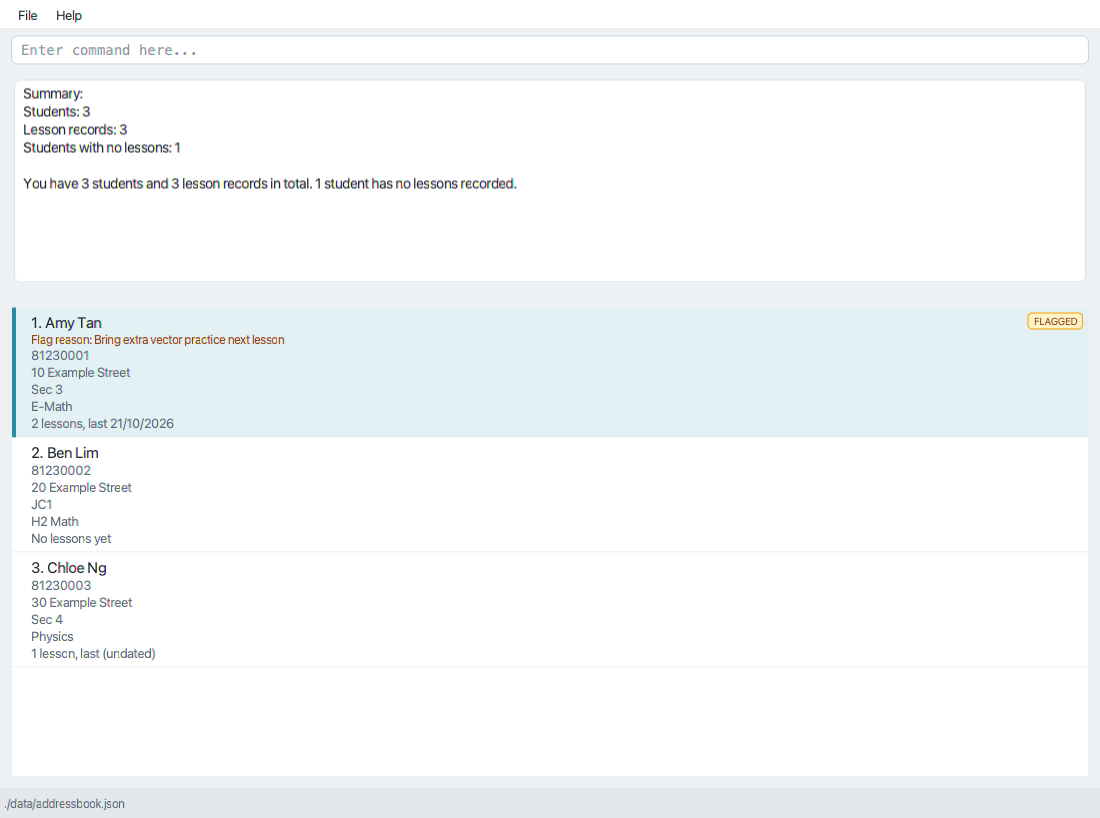
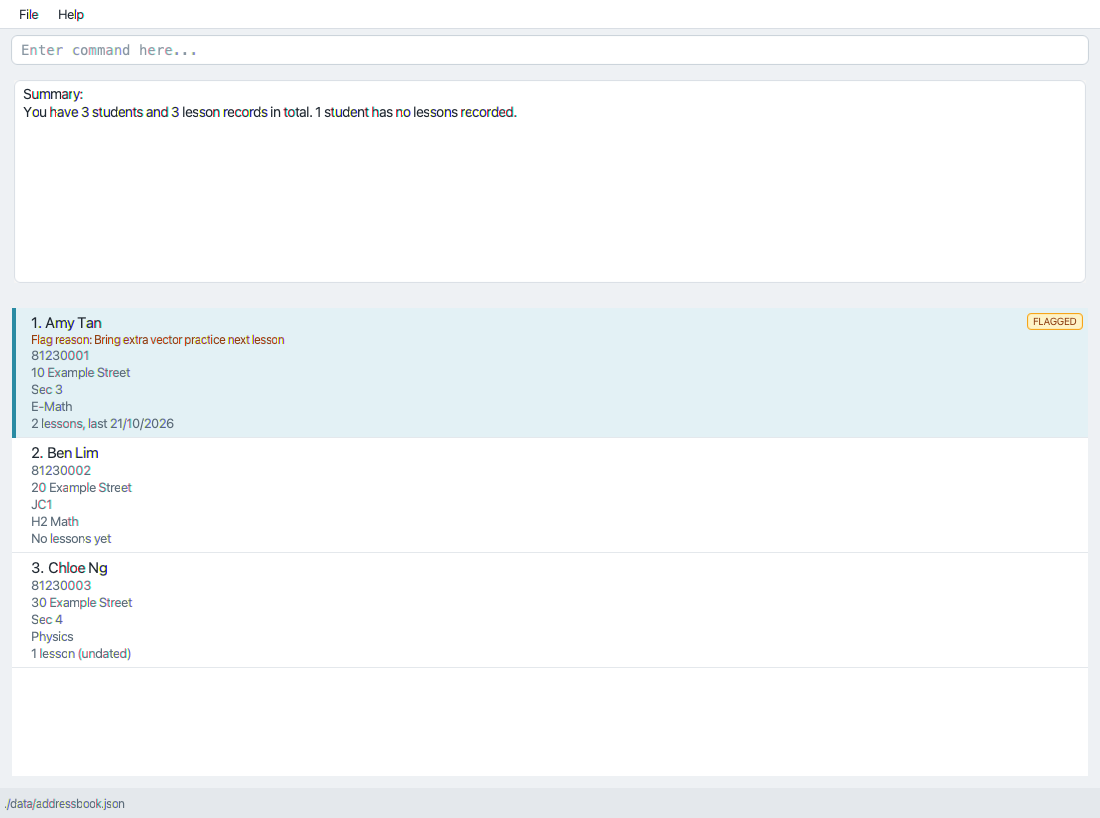
Simplify summary output and undated lesson status
The summary repeats its totals in two formats, and cards describe an
undated history as having a last date.

Let's report the totals once in a paragraph and mark undated histories
directly, with matching tests, guides and a refreshed screenshot.

diff --git a/src/test/java/seedu/address/logic/commands/SummaryCommandTest.java b/src/test/java/seedu/address/logic/commands/SummaryCommandTest.java
@@ -39,7 +39,7 @@ public class SummaryCommandTest {
     @Test
     public void execute_emptyModel_reportsZero() {
         CommandResult result = new SummaryCommand().execute(new ModelManager());
-        assertEquals(new CommandResult("Summary:\nStudents: 0\nLesson records: 0\nStudents with no lessons: 0\n\n"
+        assertEquals(new CommandResult("Summary:\n"
                 + "No students yet. Add a student to start recording lessons."),
                 result);
     }
@@ -59,7 +59,7 @@ public class SummaryCommandTest {
             logic.execute(filter);
             List<Person> visible = List.copyOf(logic.getFilteredPersonList());
             var liveList = logic.getFilteredPersonList();
-            assertEquals("Summary:\nStudents: 2\nLesson records: 2\nStudents with no lessons: 1\n\n"
+            assertEquals("Summary:\n"
                 + "You have 2 students and 2 lesson records in total. 1 student has no lessons recorded.",
                     logic.execute("summary").getFeedbackToUser());
             assertEquals(visible, logic.getFilteredPersonList());
@@ -72,7 +72,7 @@ public class SummaryCommandTest {
                 SummaryCommand.MESSAGE_USAGE), () -> logic.execute("summary 1"));
         assertEquals("Ben Lim", logic.getFilteredPersonList().getFirst().getName().fullName);
         logic.execute("delete 1");
-        assertEquals("Summary:\nStudents: 1\nLesson records: 2\nStudents with no lessons: 0\n\n"
+        assertEquals("Summary:\n"
                 + "You have 1 student and 2 lesson records in total. Every student has at least one lesson recorded.",
                 logic.execute("summary").getFeedbackToUser());
         assertTrue(logic.getFilteredPersonList().isEmpty());
@@ -85,18 +85,18 @@ public class SummaryCommandTest {
         JsonAddressBookStorage storage = new JsonAddressBookStorage(file);
         Logic logic = logic(model, storage);
         logic.execute("add n/Amy Tan p/81230001 a/10 Example Street l/Sec 3 sub/E-Math");
-        assertEquals("Summary:\nStudents: 1\nLesson records: 0\nStudents with no lessons: 1\n\n"
+        assertEquals("Summary:\n"
                 + "You have 1 student and 0 lesson records in total. 1 student has no lessons recorded.",
                 logic.execute("summary").getFeedbackToUser());
         logic.execute("log 1 c/Algebra date/2/1/2020");
         logic.execute("editlesson 1 1 c/Vectors date/1/1/2020");
-        assertEquals("Summary:\nStudents: 1\nLesson records: 1\nStudents with no lessons: 0\n\n"
+        assertEquals("Summary:\n"
                 + "You have 1 student and 1 lesson record in total. Every student has at least one lesson recorded.",
                 logic.execute("summary").getFeedbackToUser());
         ModelManager reloaded = new ModelManager(storage.readAddressBook().orElseThrow(), model.getUserPrefs());
         assertEquals(new SummaryCommand().execute(model), new SummaryCommand().execute(reloaded));
         logic.execute("deletelesson 1 1");
-        assertEquals("Summary:\nStudents: 1\nLesson records: 0\nStudents with no lessons: 1\n\n"
+        assertEquals("Summary:\n"
                 + "You have 1 student and 0 lesson records in total. 1 student has no lessons recorded.",
                 logic.execute("summary").getFeedbackToUser());
     }

diff --git a/src/test/java/seedu/address/ui/PersonListPanelTest.java b/src/test/java/seedu/address/ui/PersonListPanelTest.java
@@ -96,11 +96,10 @@ public class PersonListPanelTest {
             try {
                 Region root = (Region) window.getPrimaryStage().getScene().getRoot();
                 ListView<?> list = (ListView<?>) root.lookup("#personListView");
-                assertEquals("3 lessons, last (undated)", label(cellAt(list, 0), "lessonStatus").getText());
+                assertEquals("3 lessons (undated)", label(cellAt(list, 0), "lessonStatus").getText());
                 enterClickTestCommand(root, "flag 2 r/Call parent");
                 enterClickTestCommand(root, "flagged");
-                assertFeedback(root, "summary", "Summary:\nStudents: 2\nLesson records: 3"
-                        + "\nStudents with no lessons: 1\n\nYou have 2 students and 3 lesson records in total. "
+                assertFeedback(root, "summary", "Summary:\nYou have 2 students and 3 lesson records in total. "
                         + "1 student has no lessons recorded.", false);
                 assertEquals(1, list.getItems().size());
                 assertEquals("Ben", label(cellAt(list, 0), "name").getText());
@@ -118,8 +117,7 @@ public class PersonListPanelTest {
                 assertEquals("No lessons yet", label(cellAt(list, 0), "lessonStatus").getText());
                 assertTrue(label(cellAt(list, 0), "flaggedBadge").isVisible());
                 assertEquals("Flag reason: Call parent", label(cellAt(list, 0), "flagReason").getText());
-                assertFeedback(root, "summary", "Summary:\nStudents: 2\nLesson records: 3"
-                        + "\nStudents with no lessons: 1\n\nYou have 2 students and 3 lesson records in total. "
+                assertFeedback(root, "summary", "Summary:\nYou have 2 students and 3 lesson records in total. "
                         + "1 student has no lessons recorded.", false);
                 assertEquals(1, list.getItems().size());
             } finally {
@@ -141,7 +139,7 @@ public class PersonListPanelTest {
                 cell.pseudoClassStateChanged(PseudoClass.getPseudoClass("hover"), true);
                 list.applyCss();
                 list.layout();
-                assertEquals("2 lessons, last (undated)", label(cell, "lessonStatus").getText());
+                assertEquals("2 lessons (undated)", label(cell, "lessonStatus").getText());
                 assertTrue(label(cell, "lessonStatus").isWrapText());
                 assertTrue(label(cell, "flaggedBadge").isVisible());
                 Bounds reason = label(cell, "flagReason").localToScene(label(cell, "flagReason").getBoundsInLocal());

diff --git a/src/test/java/seedu/address/logic/MessagesTest.java b/src/test/java/seedu/address/logic/MessagesTest.java
@@ -56,9 +56,9 @@ public class MessagesTest {
         Person student = new PersonBuilder().build();
         assertEquals("No lessons yet", Messages.formatLessonStatus(student));
         student = student.withLessonAdded(new Lesson("Algebra"));
-        assertEquals("1 lesson, last (undated)", Messages.formatLessonStatus(student));
+        assertEquals("1 lesson (undated)", Messages.formatLessonStatus(student));
         student = student.withLessonAdded(new Lesson("Geometry"));
-        assertEquals("2 lessons, last (undated)", Messages.formatLessonStatus(student));
+        assertEquals("2 lessons (undated)", Messages.formatLessonStatus(student));
         student = student.withLessonAdded(new Lesson("Vectors", LocalDate.of(2020, 3, 5)));
         assertEquals("3 lessons, last 05/03/2020", Messages.formatLessonStatus(student));
         Person dated = new PersonBuilder().build().withLessonAdded(new Lesson("Algebra", LocalDate.of(2020, 1, 2)));

diff --git a/src/main/java/seedu/address/logic/commands/SummaryCommand.java b/src/main/java/seedu/address/logic/commands/SummaryCommand.java
@@ -16,15 +16,12 @@ public class SummaryCommand extends Command {
             + ": Shows totals for all students and lesson records. Accepts no parameters.\n"
             + "Example: " + COMMAND_WORD;
 
-    public static final String MESSAGE_SUCCESS = "Summary:\nStudents: %1$d\nLesson records: %2$d"
-            + "\nStudents with no lessons: %3$d";
+    public static final String MESSAGE_SUCCESS = "Summary:\n%1$s";
 
     @Override
     public CommandResult execute(Model model) {
         requireNonNull(model);
         StudentSummary summary = new StudentSummary(model.getAddressBook());
-        return new CommandResult(String.format(MESSAGE_SUCCESS, summary.getStudentCount(),
-                summary.getLessonCount(), summary.getStudentsWithoutLessons())
-                + "\n\n" + Messages.formatSummaryParagraph(summary));
+        return new CommandResult(String.format(MESSAGE_SUCCESS, Messages.formatSummaryParagraph(summary)));
     }
 }

diff --git a/src/main/java/seedu/address/logic/Messages.java b/src/main/java/seedu/address/logic/Messages.java
@@ -75,10 +75,10 @@ public class Messages {
         if (count == 0) {
             return "No lessons yet";
         }
-        String lastDate = person.getLatestLessonDate()
-                .map(date -> date.format(LESSON_DATE_FORMATTER))
-                .orElse(UNDATED_LESSON);
-        return count + (count == 1 ? " lesson, last " : " lessons, last ") + lastDate;
+        String lessonCount = count + (count == 1 ? " lesson" : " lessons");
+        return person.getLatestLessonDate()
+                .map(date -> lessonCount + ", last " + date.format(LESSON_DATE_FORMATTER))
+                .orElse(lessonCount + " " + UNDATED_LESSON);
     }
 
     /**

diff --git a/docs/DeveloperGuide.md b/docs/DeveloperGuide.md
@@ -210,7 +210,7 @@ The command keeps each student's lessons in date order with one of two operation
 
 ### Student and lesson summaries
 
-`AddressBookParser` routes `summary` to `SummaryCommandParser`, which accepts whitespace but rejects arguments with the summary-specific usage. `SummaryCommand` creates a `StudentSummary` from `Model#getAddressBook`, rather than the filtered list, and returns three labelled totals plus a short paragraph in a normal `CommandResult`. `Messages#formatSummaryParagraph` handles empty collections, singular/plural wording and whether any students lack lesson records. It never updates the active filter. The immutable snapshot counts each lesson occurrence, including undated legacy records; the total uses a `long` so adding the sizes of many histories cannot overflow an `int`. No summary values are added to JSON. The existing post-command saving and failed-save rollback still apply.
+`AddressBookParser` routes `summary` to `SummaryCommandParser`, which accepts whitespace but rejects arguments with the summary-specific usage. `SummaryCommand` creates a `StudentSummary` from `Model#getAddressBook`, rather than the filtered list, and returns a heading and a single summary paragraph in a normal `CommandResult`. `Messages#formatSummaryParagraph` handles empty collections, singular/plural wording and whether any students lack lesson records. It never updates the active filter. The immutable snapshot counts each lesson occurrence, including undated legacy records; the total uses a `long` so adding the sizes of many histories cannot overflow an `int`. No summary values are added to JSON. The existing post-command saving and failed-save rollback still apply.
 
 `Person#getLessonCount` counts that student's records. `Person#getLatestLessonDate` selects the greatest present date, ignoring undated records and avoiding an assumption about list order. `Messages#formatLessonStatus` supplies empty, singular, plural and undated wording. `PersonCard` places this status below the subject using the existing wrapping label style. Each immutable student replacement already triggers the list cell to rebuild its card, so `log`, `editlesson` and `deletelesson` need no additional UI callbacks or cached counters. Flag display is independent of the lesson-status row.
 
@@ -613,12 +613,12 @@ Use Java `25` and a separate empty test folder. Copy `TutorLah.jar` there and op
 
 Use a separate test folder with an empty student file and fictional data only.
 
-1. Enter `summary`. Expected: all three totals are zero, followed by `No students yet. Add a student to start recording lessons.`.
-1. Add Amy Tan and Ben Lim, then log two dated lessons for Amy. Expected: Amy's card shows `2 lessons, last DATE` using the later date, and Ben's shows `No lessons yet`. `summary` reports 2 students, 2 lesson records and 1 student with no lessons, followed by `You have 2 students and 2 lesson records in total. 1 student has no lessons recorded.`.
+1. Enter `summary`. Expected: the summary says `No students yet. Add a student to start recording lessons.`.
+1. Add Amy Tan and Ben Lim, then log two dated lessons for Amy. Expected: Amy's card shows `2 lessons, last DATE` using the later date, and Ben's shows `No lessons yet`. `summary` reports 2 students, 2 lesson records and 1 student with no lessons: `You have 2 students and 2 lesson records in total. 1 student has no lessons recorded.`.
 1. Enter `find ben`, then `summary`. Expected: the same totals, with only Ben still displayed as student 1. Repeat after flagging Ben and entering `flagged`, and after a search that finds no students.
 1. Enter `summary 1`. Expected: the summary usage, with the preceding filter and student data unchanged.
 1. Enter `list`, edit Amy's latest lesson to an earlier date, then remove her lessons one at a time using `deletelesson`. Expected: the card immediately follows the most recent remaining date, the count decreases, and removing the last record shows `No lessons yet`. `summary` then reports 2 students, 0 lesson records and 2 students with no lessons.
-1. Restart with a valid legacy file containing undated lessons. Expected: these records count in the totals, and a student with only undated records shows `N lessons, last (undated)` (or `1 lesson, last (undated)`). Logging a dated lesson keeps those records and supplies the new last date.
+1. Restart with a valid legacy file containing undated lessons. Expected: these records count in the totals, and a student with only undated records shows `N lessons (undated)` (or `1 lesson (undated)`). Logging a dated lesson keeps those records and supplies the new last date.
 1. Check the status alongside a flag reason, selected and hovered cards, long student details and the supported display sizes/scales. Expected: the status and reason remain readable without overlapping other fields.
 
 ### Adding students

diff --git a/tutorlah-agent-brief.md b/tutorlah-agent-brief.md
@@ -6,7 +6,7 @@ it). If your tool reads neither, paste this file in before your task. It
 replaces the "Shared rules" and "Shared conventions and agreed interfaces"
 sections of the Oct 5 work plan.
 
-Last updated: Oct 25, 2026, for issues #142 (student follow-up flags), #145 (editing a lesson record) and #116 (save-failure rollback); #146 adds student and lesson summaries.
+Last updated: Oct 26, 2026, for issues #142 (student follow-up flags), #145 (editing a lesson record) and #116 (save-failure rollback); #146 adds student and lesson summaries.
 
 **Owner:** aerodart (Git expert). Update this file and `tutorlah-context.md`
 in the same PR that changes a decision, message or interface, and refresh
@@ -107,15 +107,15 @@ ask the team. Do not guess.
 | Flag | `flag INDEX [r/REASON]` | `Flagged student: {NAME}.`, `Flagged student: {NAME}. Reason: {REASON}`, or `Updated flag for {NAME}. Reason: {REASON}` |
 | Flagged | `flagged` | `Listed {COUNT} flagged students.` (`Listed 1 flagged student.` for one) or `No flagged students found. Use list to show all students.` |
 | Log | `log INDEX c/CONTENT [date/DATE]` | `Logged lesson for {NAME} on {DATE}: {CONTENT}` |
-| Summary | `summary` | `Summary:` then `Students: {COUNT}`, `Lesson records: {COUNT}` and `Students with no lessons: {COUNT}`, each on a new line, then a blank line and a summary paragraph |
+| Summary | `summary` | `Summary:` then a single summary paragraph on the next line |
 | Unflag | `unflag INDEX` | `Unflagged student: {NAME}.` |
 | **View** | **`view INDEX`** | Header `Lesson records for {NAME} ({COUNT}):` then one line per lesson, `{NUMBER}. {DATE}: {CONTENT}`, or `No lessons logged yet for {NAME}.` |
 
-**Summary paragraph (#146):** after the totals and a blank line, show `You have N students and M lesson records in total.` (use `student` and `lesson record` for one), then `K students have no lessons recorded.` (use `1 student has` for one), or `Every student has at least one lesson recorded.` when none have empty histories. An empty collection instead says `No students yet. Add a student to start recording lessons.`.
+**Summary paragraph (#146):** after the heading, show `You have N students and M lesson records in total.` (use `student` and `lesson record` for one), then `K students have no lessons recorded.` (use `1 student has` for one), or `Every student has at least one lesson recorded.` when none have empty histories. An empty collection instead says `No students yet. Add a student to start recording lessons.`.
 
 **Summary (#146):** count the complete address book, regardless of `find` or `flagged`, and keep the current filter and displayed indexes. Include undated and repeated lesson occurrences. `SummaryCommandParser` accepts only whitespace; arguments give the invalid command format with `SummaryCommand.MESSAGE_USAGE`: `summary: Shows totals for all students and lesson records. Accepts no parameters.`, then `Example: summary` on a new line. Summary values are derived and never stored in JSON; the normal post-command saving path still runs.
 
-**Card lesson status (#146):** below the subject, show `No lessons yet`, `1 lesson, last DD/MM/YYYY` or `N lessons, last DD/MM/YYYY`. With only undated records, use `(undated)` in place of the date. Count all records and use the greatest recorded date, not the last command time. Logging, editing and deleting a lesson refresh the line through the existing immutable student replacement. Keep flag badge/reason visibility independent. The help window includes `Use summary to see student and lesson totals.`.
+**Card lesson status (#146):** below the subject, show `No lessons yet`, `1 lesson, last DD/MM/YYYY` or `N lessons, last DD/MM/YYYY`. With only undated records, show `1 lesson (undated)` or `N lessons (undated)`. Count all records and use the greatest recorded date, not the last command time. Logging, editing and deleting a lesson refresh the line through the existing immutable student replacement. Keep flag badge/reason visibility independent. The help window includes `Use summary to see student and lesson totals.`.
 
 **Lesson dates (#98, #120):** `log` dates each lesson with `date/DATE` if
 given, otherwise today's date from the system clock. `{DATE}` is

diff --git a/docs/UserGuide.md b/docs/UserGuide.md
@@ -32,7 +32,7 @@ TutorLah is a **desktop application for freelance tutors in Singapore to keep tr
 
    * `list` : Lists all students.
 
-   * `summary` : Shows totals for all students and lesson records, followed by a short overview paragraph.
+   * `summary` : Shows a short paragraph summarising all students and lesson records.
 
    * `find wei` : Shows students with `wei` anywhere in their name. Use `list` to show all students again.
 
@@ -138,14 +138,10 @@ Example output for three students with three lesson records between them, one of
 
 ```text
 Summary:
-Students: 3
-Lesson records: 3
-Students with no lessons: 1
-
 You have 3 students and 3 lesson records in total. 1 student has no lessons recorded.
 ```
 
-* A short paragraph below the totals describes the collection and highlights students without recorded lessons. With no students, it suggests adding a student.
+* A short paragraph describes the collection and highlights students without recorded lessons. With no students, it suggests adding a student.
 * Totals include **all saved students**, even after `find` or `flagged` hides some cards. The current filter and displayed student numbers are kept. Use `list` to restore all cards.
 * Every lesson record counts, including undated records saved before v1.4 and separate records with identical content. These totals describe recorded history, not scheduled lessons or teaching hours.
 * `summary` accepts no parameters. For example, `summary 1` shows the summary usage and keeps the current list.
@@ -162,7 +158,7 @@ Each student card also shows a lesson-status line below the subject:
 | No lessons | `No lessons yet` |
 | One dated lesson | `1 lesson, last 21/10/2026` |
 | Multiple dated lessons | `5 lessons, last 21/10/2026` |
-| Only undated lessons | `5 lessons, last (undated)` |
+| Only undated lessons | `5 lessons (undated)` |
 
 `last` means the most recent **recorded lesson date**, rather than when a command was typed. When dated and undated lessons coexist, all records count and the most recent dated lesson supplies the date. The line refreshes after `log`, `editlesson` and `deletelesson`, and a student's flag and reason remain visible.
 

diff --git a/tutorlah-context.md b/tutorlah-context.md
@@ -1,6 +1,6 @@
 # TutorLah: context
 
-Last updated: Oct 25, 2026, for issues #111 (target user), #142 (student follow-up flags), #145 (editing a lesson record), #116 (save-failure rollback) and #143 (finding students by subject and level); #146 adds student and lesson summaries.
+Last updated: Oct 26, 2026, for issues #111 (target user), #142 (student follow-up flags), #145 (editing a lesson record), #116 (save-failure rollback) and #143 (finding students by subject and level); #146 adds student and lesson summaries.
 
 ## What it is
 
@@ -109,7 +109,7 @@ Added in v1.5:
 | List flagged students | `flagged` | `flagged` |
 | Summarize students and lessons | `summary` | `summary` |
 
-`summary` counts all students, all lesson occurrences and students with no lessons, even when `find` or `flagged` filters the visible list. It keeps that filter and adds a short paragraph explaining the totals and any students without records. Cards show a lesson count and the most recent recorded date, or `No lessons yet` / `(undated)` where appropriate. The line refreshes when lesson records change. These values are derived from existing data and introduce no JSON fields.
+`summary` counts all students, all lesson occurrences and students with no lessons, even when `find` or `flagged` filters the visible list. It keeps that filter and shows a single short paragraph explaining the totals and any students without records. Cards show a lesson count and the most recent recorded date, or `No lessons yet` / `N lessons (undated)` where appropriate. The line refreshes when lesson records change. These values are derived from existing data and introduce no JSON fields.
 
 Flags mark unresolved follow-up without changing student identity or lesson
 history. The reason is optional and can be replaced by flagging again with a
